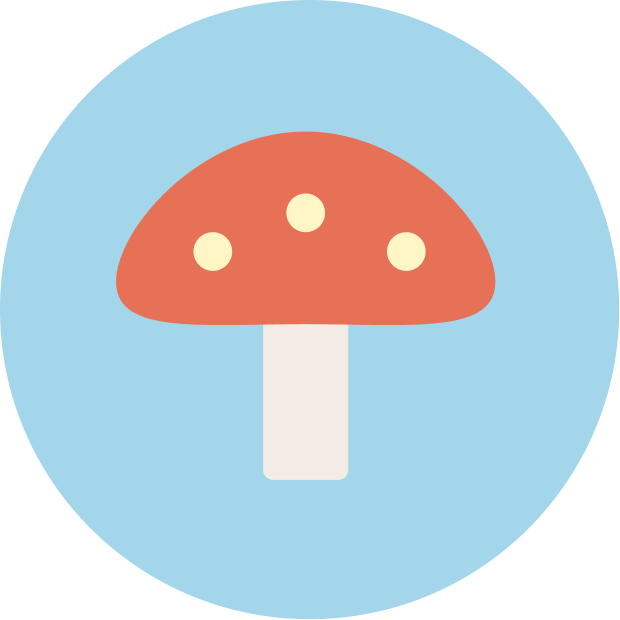
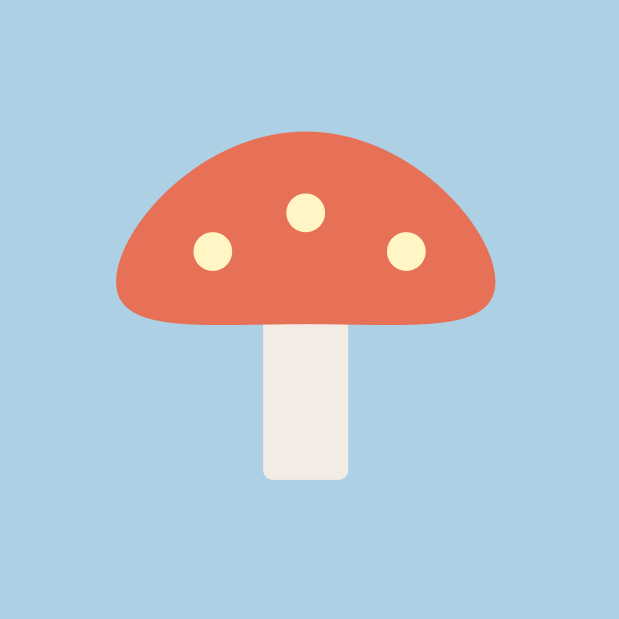
lumino almost done

diff --git a/remember.html b/remember.html
@@ -192,13 +192,10 @@ ul.insights em{font-style:italic;color:var(--ink)}
 .ba-row .cell p{margin-top:10px;font-size:15px;line-height:1.5;color:#2b2b2b;max-width:none}
 @media (max-width:900px){.ba-row{grid-template-columns:1fr}.ba-row .cell{border-left:none;border-top:1px solid var(--line)}.ba-row .cell:first-child{border-top:none}}
 
-/* ── Palette swatches ─────────────────────────────────────────────────── */
-.palette-row{margin-top:32px;display:grid;grid-template-columns:repeat(3,1fr);gap:16px}
-.swatch{border-radius:var(--r-sm);overflow:hidden;border:1px solid var(--line)}
-.swatch .fill{width:100%;aspect-ratio:2/1}
-.swatch .label{padding:16px 18px}
-.swatch .label .name{font-size:15px;color:var(--ink)}
-.swatch .label .hex{margin-top:4px;font-size:12.5px;color:var(--faint);text-transform:uppercase;letter-spacing:.04em}
+/* ── Product flow diagram — simplified swim-lane flowchart ──────────────── */
+.flow-diagram{margin-top:32px;padding:32px;border:1px solid var(--line);border-radius:var(--r-sm);overflow-x:auto}
+.flow-diagram svg{display:block;width:100%;height:auto;min-width:640px}
+.flow-caption{margin-top:12px;font-size:12.5px;color:var(--faint)}
 
 .pullquote{margin:32px 0;padding-left:20px;border-left:1px solid var(--line)}
 .pullquote p{margin:0;max-width:56ch;color:var(--ink);font-size:clamp(19px,2.1vw,24px);line-height:1.4;font-style:italic}
@@ -237,7 +234,6 @@ footer.pagefoot a:hover{color:var(--ink)}
   .stat-cells{grid-template-columns:1fr;gap:20px}
   .metrics-row{grid-template-columns:1fr;gap:20px}
   .highlight-row{grid-template-columns:1fr;gap:24px}
-  .palette-row{grid-template-columns:1fr}
 }
 </style>
 </head>
@@ -294,7 +290,7 @@ footer.pagefoot a:hover{color:var(--ink)}
         <div class="meta">
           <div class="meta-item"><span class="k">Team &amp; Role</span><span class="v">3 Designers · 1 PM · 5 Frontend Developers</span></div>
           <div class="meta-item"><span class="k">My Role</span><span class="v">Output Layer Design · Organizer Dashboard Scope</span></div>
-          <div class="meta-item"><span class="k">Timeline</span><span class="v">Apr 2026 - Jun 2026</span></div>
+          <div class="meta-item"><span class="k">Timeline</span><span class="v">May 2025 – Jun 2025 (cohort demo)</span></div>
         </div>
 
         <div class="ph ph-hero"></div>
@@ -312,6 +308,7 @@ footer.pagefoot a:hover{color:var(--ink)}
             <div class="sec-body">
               <p>Remember turns memories held by many people into one memorial for the person who has died. One person — the organizer — creates the memorial and invites family and friends to contribute. Contributors respond to a guided interview rather than facing a blank page, sharing stories, voice recordings, and photos.</p>
               <p>Those fragments are then synthesized into a single memorial that anyone can visit, moving between a slideshow, a constellation of themes and relationships, recorded voices, and a photo archive. The organizer manages it all from one dashboard, from the first invitation to the finished memorial.</p>
+              <p>Remember was built by a cohort team — a PM, a tech lead, three designers, and five frontend developers — toward a working demo on June 16, 2025. It ships as a one-time purchase per memorial, not a subscription: the organizer pays once, and the memorial stays theirs.</p>
             </div>
           </div>
           <div class="ph ph-inline"></div>
@@ -328,6 +325,7 @@ footer.pagefoot a:hover{color:var(--ink)}
             <div class="sec-body">
               <p>When someone dies, no one holds the whole picture. A friend remembers a conversation. A cousin has the only photo from that summer. A sibling saved a voicemail and can't bring themselves to delete it. Each piece is real, and each one is partial.</p>
               <p>The tools families reach for are not built to hold any of this. Group chats bury a story under the next message. Shared drives turn a life into a folder of filenames. Social media walls flatten condolences and memories into the same scroll, then move on.</p>
+              <p>Grief research backs this up in a specific way: vague memories disappear and specific ones stay. "She was a great mom" fades. The exact, oddly precise detail — the extra syllable she added to a word, the receipt she kept — is what people actually hold onto. And of every kind of memory, voice is the one people fear losing most: they resave voicemails for years just to keep them from auto-deleting, and keep dead phones charged just to hear a greeting again.</p>
               <p>So families end up with more fragments than they started with — and still no memorial.</p>
             </div>
           </div>
@@ -345,6 +343,7 @@ footer.pagefoot a:hover{color:var(--ink)}
               <p>We began by treating this as a collection problem: build a good way to gather memories from a lot of people. But collection turned out to be the easy half. The moment we imagined fifty submissions arriving — different voices, different lengths, some a paragraph, some a single sentence — the real question surfaced.</p>
               <p class="highlight">How do you turn many people's fragments into something that feels authored?</p>
               <p>That is genuinely hard, and it is the kind of hard that AI is good at. But it introduced the tension that shaped every decision after it. Grief is not a context that tolerates a chatbot, a sparkle icon, or a "generating…" state. The moment a grieving person can see the machine working, the memorial stops being about the person who died.</p>
+              <p>A research synthesis we pulled together from grief forums, obituaries, eulogies, and bereavement studies pointed at what the AI should actually be looking for. Across hundreds of firsthand accounts, the moment people describe as a gift — not a burden — is finding out something about the person they didn't already know: a story a coworker had never told, a letter that showed a side of someone no family member had seen. That became the north star for the synthesis engine: don't just summarize what's there, surface what nobody in the room already knew.</p>
             </div>
           </div>
           <div class="pullquote">
@@ -365,20 +364,7 @@ footer.pagefoot a:hover{color:var(--ink)}
               <p>Weight carries the same idea. Bold is reserved almost entirely for quotes — the actual words people wrote about the person. The interface stays quiet so the memories carry the emphasis. What a visitor should notice is what someone said, not the thing displaying it.</p>
             </div>
           </div>
-          <div class="palette-row">
-            <div class="swatch">
-              <div class="fill" style="background:#FBF9F6;border-bottom:1px solid var(--line)"></div>
-              <div class="label"><div class="name">Soft cream — background</div><div class="hex">#FBF9F6</div></div>
-            </div>
-            <div class="swatch">
-              <div class="fill" style="background:#423F39"></div>
-              <div class="label"><div class="name">Deep warm brown — type</div><div class="hex">#423F39</div></div>
-            </div>
-            <div class="swatch">
-              <div class="fill" style="background:#97877B"></div>
-              <div class="label"><div class="name">Muted taupe — supporting</div><div class="hex">#97877B</div></div>
-            </div>
-          </div>
+          <div class="ph ph-inline" style="aspect-ratio:1494/932;background:none"><img src="images/RememberDesignSystem.png" alt="Remember design system — typography, color, iconography and components"></div>
         </div>
       </section>
 
@@ -428,7 +414,72 @@ footer.pagefoot a:hover{color:var(--ink)}
               <p>Alongside design work, I ran the designer–developer syncs and coordinated handoff sequencing, so that five frontend developers were never blocked waiting on design.</p>
             </div>
           </div>
-          <div class="ph ph-inline"></div>
+          <div class="flow-diagram">
+            <svg viewBox="0 0 960 360" xmlns="http://www.w3.org/2000/svg" role="img" aria-label="Product flow: the organizer creates a memorial and shares an invite link; the contributor answers questions and uploads photos and voice; contributions flow back to the organizer, who reviews and generates the memorial.">
+              <defs>
+                <marker id="arrow" viewBox="0 0 10 10" refX="8" refY="5" markerWidth="7" markerHeight="7" orient="auto-start-reverse">
+                  <path d="M0,0 L10,5 L0,10 z" fill="var(--faint)"/>
+                </marker>
+              </defs>
+
+              <text x="38" y="26" font-size="11" letter-spacing="1.5" fill="var(--faint)" font-family="Inter, -apple-system, sans-serif">ORGANIZER</text>
+              <text x="38" y="201" font-size="11" letter-spacing="1.5" fill="var(--faint)" font-family="Inter, -apple-system, sans-serif">CONTRIBUTOR</text>
+
+              <!-- horizontal connectors, organizer row -->
+              <line x1="122" y1="100" x2="198" y2="100" stroke="var(--faint)" stroke-width="1.3" marker-end="url(#arrow)"/>
+              <line x1="825" y1="100" x2="855" y2="100" stroke="var(--faint)" stroke-width="1.3" marker-end="url(#arrow)"/>
+
+              <!-- horizontal connectors, contributor row -->
+              <line x1="332" y1="280" x2="412" y2="280" stroke="var(--faint)" stroke-width="1.3" marker-end="url(#arrow)"/>
+              <line x1="625" y1="280" x2="685" y2="280" stroke="var(--faint)" stroke-width="1.3" marker-end="url(#arrow)"/>
+
+              <!-- cross-lane: invite sent down -->
+              <line x1="290" y1="138" x2="290" y2="235" stroke="var(--faint)" stroke-width="1.3" marker-end="url(#arrow)"/>
+              <text x="300" y="192" font-size="11" fill="var(--faint)" font-family="Inter, -apple-system, sans-serif">Invite sent</text>
+
+              <!-- cross-lane: contributions collected up -->
+              <line x1="730" y1="235" x2="730" y2="138" stroke="var(--faint)" stroke-width="1.3" marker-end="url(#arrow)"/>
+              <text x="740" y="192" font-size="11" fill="var(--faint)" font-family="Inter, -apple-system, sans-serif">Contributions</text>
+              <text x="740" y="206" font-size="11" fill="var(--faint)" font-family="Inter, -apple-system, sans-serif">collected</text>
+
+              <!-- O1: start circle -->
+              <circle cx="80" cy="100" r="42" fill="var(--paper)" stroke="var(--faint)" stroke-width="1.3"/>
+              <text x="80" y="96" text-anchor="middle" font-size="11" fill="var(--ink)" font-family="Inter, -apple-system, sans-serif">Creates</text>
+              <text x="80" y="110" text-anchor="middle" font-size="11" fill="var(--ink)" font-family="Inter, -apple-system, sans-serif">Memorial</text>
+
+              <!-- O2: action rect -->
+              <rect x="195" y="62" width="190" height="76" rx="10" fill="var(--line)" stroke="var(--faint)" stroke-width="1.3"/>
+              <text x="290" y="96" text-anchor="middle" font-size="11" fill="var(--ink)" font-family="Inter, -apple-system, sans-serif">Generates &amp;</text>
+              <text x="290" y="112" text-anchor="middle" font-size="11" fill="var(--ink)" font-family="Inter, -apple-system, sans-serif">Shares Invite Link</text>
+
+              <!-- C1: status circle -->
+              <circle cx="290" cy="280" r="42" fill="var(--paper)" stroke="var(--faint)" stroke-width="1.3"/>
+              <text x="290" y="276" text-anchor="middle" font-size="11" fill="var(--ink)" font-family="Inter, -apple-system, sans-serif">Opens</text>
+              <text x="290" y="290" text-anchor="middle" font-size="11" fill="var(--ink)" font-family="Inter, -apple-system, sans-serif">Invite Link</text>
+
+              <!-- C2: action rect -->
+              <rect x="412" y="242" width="213" height="76" rx="10" fill="var(--line)" stroke="var(--faint)" stroke-width="1.3"/>
+              <text x="518" y="272" text-anchor="middle" font-size="11" fill="var(--ink)" font-family="Inter, -apple-system, sans-serif">Answers Questions,</text>
+              <text x="518" y="288" text-anchor="middle" font-size="11" fill="var(--ink)" font-family="Inter, -apple-system, sans-serif">Uploads Photos &amp; Voice</text>
+              <text x="518" y="304" text-anchor="middle" font-size="10" fill="var(--faint)" font-family="Inter, -apple-system, sans-serif">(voice optional)</text>
+
+              <!-- C3: status circle -->
+              <circle cx="730" cy="280" r="42" fill="var(--paper)" stroke="var(--faint)" stroke-width="1.3"/>
+              <text x="730" y="276" text-anchor="middle" font-size="11" fill="var(--ink)" font-family="Inter, -apple-system, sans-serif">Submission</text>
+              <text x="730" y="290" text-anchor="middle" font-size="11" fill="var(--ink)" font-family="Inter, -apple-system, sans-serif">Confirmed</text>
+
+              <!-- O3: action rect -->
+              <rect x="635" y="62" width="190" height="76" rx="10" fill="var(--line)" stroke="var(--faint)" stroke-width="1.3"/>
+              <text x="730" y="96" text-anchor="middle" font-size="11" fill="var(--ink)" font-family="Inter, -apple-system, sans-serif">Reviews Flags,</text>
+              <text x="730" y="112" text-anchor="middle" font-size="11" fill="var(--ink)" font-family="Inter, -apple-system, sans-serif">Previews Themes</text>
+
+              <!-- O4: end circle -->
+              <circle cx="898" cy="100" r="42" fill="var(--paper)" stroke="var(--faint)" stroke-width="1.3"/>
+              <text x="898" y="96" text-anchor="middle" font-size="11" fill="var(--ink)" font-family="Inter, -apple-system, sans-serif">Memorial</text>
+              <text x="898" y="110" text-anchor="middle" font-size="11" fill="var(--ink)" font-family="Inter, -apple-system, sans-serif">Shared</text>
+            </svg>
+            <p class="flow-caption">Simplified product flow — the organizer's and contributor's paths, and where they cross.</p>
+          </div>
         </div>
       </section>
 
@@ -456,24 +507,24 @@ footer.pagefoot a:hover{color:var(--ink)}
 
           <div class="bento-5">
             <div class="cell">
-              <h3>Slideshow</h3>
-              <p>The first thing a visitor meets. It requires no decision and no interaction; it simply plays.</p>
+              <h3>Story</h3>
+              <p>A slideshow, each frame a photo paired with the quote or memory it belongs to, sequenced to read as one narrative. The first thing a visitor meets — no decision required, it simply plays at their own pace.</p>
             </div>
             <div class="cell">
               <h3>Constellation — Themes</h3>
-              <p>Synthesized memories rendered as connected points of light rather than paragraphs — who he was, assembled from what many people independently remembered.</p>
+              <p>Synthesized memories rendered as connected points of light rather than paragraphs. Each theme carries a short summary and the real contributor quotes it was built from — never AI prose standing alone.</p>
             </div>
             <div class="cell">
               <h3>Constellation — Relationships</h3>
-              <p>The same structure, read a second way: who remembered him, and how.</p>
+              <p>The same map, filtered by who's speaking — family, friend, colleague, community — so a visitor can see how differently each circle experienced the same person.</p>
             </div>
             <div class="cell">
               <h3>Voices</h3>
-              <p>The recordings, kept as sound. Some things should not be transcribed.</p>
+              <p>Every recording, kept as sound first, with a transcript underneath for anyone who wants to read instead of listen. Some things should not be transcribed-only.</p>
             </div>
             <div class="cell">
-              <h3>Photos</h3>
-              <p>Browsable by album or by contributor, so a visitor can follow either the moment or the person who kept it.</p>
+              <h3>All Photos</h3>
+              <p>Every submitted photo, sorted into albums the AI names from what's actually in them, not by upload date — then browsable chronologically once you're inside one.</p>
             </div>
           </div>
 
@@ -527,7 +578,7 @@ footer.pagefoot a:hover{color:var(--ink)}
             <div class="cell">
               <h3>Team-level scope decisions</h3>
               <div class="ph"><span class="cap">Share flow, before &amp; after</span></div>
-              <p>The team also cut video from the MVP, split audio into two distinct cases (original voice recordings versus speech captured during the interview), and converted the share flow from a full page into a focused pop-up that visually distinguishes a contributor invitation from a viewer link — two emotionally different acts that had looked identical.</p>
+              <p>For a demo-day MVP, the team drew hard lines: no mobile app, one memorial per account, and no organizer editing of AI-generated content — the output ships as the AI produced it, or not at all. We also converted the share flow from a full page into a focused pop-up that visually distinguishes a contributor invitation from a viewer link — two emotionally different acts that had looked identical.</p>
             </div>
           </div>
         </div>
@@ -552,6 +603,7 @@ footer.pagefoot a:hover{color:var(--ink)}
             </div>
             <div class="sec-body">
               <p>The prototype is live, but it has never been in front of a grieving family. The first thing I would test is not usability. It's whether the constellation is meaningful or merely pretty — a distinction that a task-completion metric cannot detect and that only a real visitor can answer. I would run moderated sessions with actual viewers and organizers, and watch for one thing: whether someone moving through the constellation is remembering a person, or looking at a visualization.</p>
+              <p>The research also points past the demo. Memory research shows grief moves in stages: a foggy first year, active reminiscing from years two to five, then a fade that sets in around year five to fifteen, when the specific scenes go first and only generalizations remain. That means a memorial's highest emotional value isn't the week it's built — it's a decade out, when someone's own memory of a voice or a face has started to soften and Remember is the thing that still has it exactly. We built for the demo. The real product has to be built for the ten-year user, still able to accept new contributions, still worth opening, long after the memorial was finished.</p>
             </div>
           </div>
         </div>

diff --git a/play.html b/play.html
@@ -128,6 +128,16 @@ nav{background:#fff;border-radius:999px;display:flex;align-items:center;gap:10px
 .img-card-caption.visible{opacity:1}
 .img-card-caption a{color:var(--ink);text-decoration:underline;text-underline-offset:2px}
 
+/* ── Scroll card: a tall full-page capture. Expanded, the frame itself
+   becomes a fixed viewing window you scroll inside, with its caption
+   staying put below it (no scrolling needed to read it); a second click
+   on the window opens the real site. ── */
+.play-item.scroll-item.expanded .ph-card{
+  aspect-ratio:auto;overflow-x:hidden;overflow-y:auto;cursor:pointer;
+  -webkit-overflow-scrolling:touch;
+}
+.play-item.scroll-item.expanded .ph-card img{height:auto;object-fit:unset}
+
 /* ── Mobile: drop the fixed app-shell, let the page scroll normally ─────── */
 @media (max-width:960px){
   html,body{height:auto;overflow:visible}
@@ -202,14 +212,19 @@ if(sessionStorage.getItem('playFromAbout')){
               <div class="ph-card img-card" id="playCard" style="aspect-ratio:9154/5945">
                 <img src="images/PlayStardewValley.webp" alt="Stardew Valley"/>
               </div>
-              <p class="img-card-caption">I am a Stardew Valley player. I design and code my own mods when the game doesn't do what I want. Visit my nexus homepage: <a href="https://www.nexusmods.com/profile/jyxdong/mods" target="_blank" rel="noopener noreferrer" onclick="event.stopPropagation()">nexusmods.com/profile/jyxdong/mods</a></p>
+              <p class="img-card-caption">I am a very obsessed Stardew Valley player. While working on my own farm, I design and code my own mods when the game doesn't do what I want. Visit my nexus homepage: <a href="https://www.nexusmods.com/profile/jyxdong/mods" target="_blank" rel="noopener noreferrer" onclick="event.stopPropagation()">nexusmods.com/profile/jyxdong/mods</a></p>
             </div>
             <div class="ph-card h-sm"></div>
             <div class="ph-card h-md"></div>
             <div class="ph-card h-lg"></div>
           </div>
           <div class="waterfall-col narrow">
-            <div class="ph-card h-xl"></div>
+            <div class="play-item scroll-item" id="wattItem">
+              <div class="ph-card img-card" id="wattCard" style="aspect-ratio:4/3">
+                <img src="images/Play27Watt.webp" alt="27 Watt Studio" style="object-position:top"/>
+              </div>
+              <p class="img-card-caption">27 Watt Studio is a photography studio founded by my friends and I. I work as an assistant photographer while mainly responsible for social media and web design.</p>
+            </div>
             <div class="ph-card h-md"></div>
             <div class="ph-card h-sm"></div>
           </div>
@@ -318,8 +333,86 @@ if(sessionStorage.getItem('playFromAbout')){
     e.stopPropagation();
     if(isExpanded) collapse(); else expand();
   });
+
+  // ── Watt item: click floats + expands it into a fixed, scrollable window
+  // showing the full captured page, with its caption below; click again
+  // jumps to the real site.
+  var wattItem = document.getElementById('wattItem');
+  var wattCard = document.getElementById('wattCard');
+  var wattCaption = wattItem.querySelector('.img-card-caption');
+  var wattExpanded = false;
+
+  function wattFlip(applyChanges){
+    var first = wattItem.getBoundingClientRect();
+    applyChanges();
+    var last = wattItem.getBoundingClientRect();
+    var dx = (first.left+first.width/2) - (last.left+last.width/2);
+    var dy = (first.top+first.height/2) - (last.top+last.height/2);
+    var scale = last.width ? first.width/last.width : 1;
+    wattItem.style.transition = 'none';
+    wattItem.style.transform = 'translate('+dx+'px,'+dy+'px) scale('+scale+')';
+    wattItem.getBoundingClientRect(); // force reflow
+    requestAnimationFrame(function(){
+      wattItem.style.transition = 'transform .6s cubic-bezier(.16,1,.3,1)';
+      wattItem.style.transform = 'translate(0,0) scale(1)';
+    });
+  }
+
+  function wattExpand(){
+    wattExpanded = true;
+    var frameRect = frame.getBoundingClientRect();
+    wattFlip(function(){
+      wattItem.classList.add('expanded');
+      var w = Math.min(frame.clientWidth*0.56, 480);
+      var h = Math.min(frame.clientHeight*0.6, 420);
+      wattCard.style.width = w+'px';
+      wattCard.style.height = h+'px';
+      wattItem.style.width = w+'px';
+      wattItem.style.left = '0px';
+      wattItem.style.top = '0px';
+      var r = wattItem.getBoundingClientRect();
+      wattItem.style.left = (frameRect.width/2 - r.width/2)+'px';
+      wattItem.style.top = (frameRect.height/2 - r.height/2)+'px';
+    });
+    scrim.classList.add('active');
+    wattItem.addEventListener('transitionend', function onEnd(e){
+      if(e.propertyName !== 'transform') return;
+      wattItem.removeEventListener('transitionend', onEnd);
+      if(wattExpanded) wattCaption.classList.add('visible');
+    });
+  }
+
+  function wattCollapse(){
+    wattExpanded = false;
+    wattCaption.classList.remove('visible');
+    wattFlip(function(){
+      wattItem.classList.remove('expanded');
+      wattItem.style.width = '';
+      wattItem.style.left = '';
+      wattItem.style.top = '';
+      wattCard.style.width = '';
+      wattCard.style.height = '';
+      wattCard.scrollTop = 0;
+    });
+    scrim.classList.remove('active');
+    wattItem.addEventListener('transitionend', function onEnd(e){
+      if(e.propertyName !== 'transform') return;
+      wattItem.removeEventListener('transitionend', onEnd);
+      wattItem.style.transition = '';
+      wattItem.style.transform = '';
+    });
+  }
+
+  wattItem.addEventListener('click', function(e){
+    if(waterfall.classList.contains('stacked')) return; // let it disperse first
+    e.stopPropagation();
+    if(!wattExpanded){ wattExpand(); }
+    else{ window.open('https://www.27wattmedia.com/', '_blank', 'noopener'); }
+  });
+
   scrim.addEventListener('click', function(){
     if(isExpanded) collapse();
+    if(wattExpanded) wattCollapse();
   });
 })();
 </script>

diff --git a/index.html b/index.html
@@ -254,13 +254,7 @@ const TEX = {
     label(c,s,'Artisk Redesign');
   }),
   lumino: new THREE.TextureLoader().load('images/LuminoSign.png'),
-  remember: mkTex((c,s)=>{
-    c.fillStyle='#0d4d68'; c.fillRect(0,0,s,s);
-    [[.07,.07,.86,.19,'rgba(70,220,180,.6)'],[.10,.29,.80,.16,'rgba(255,185,55,.55)'],
-     [.12,.48,.76,.14,'rgba(210,90,230,.55)'],[.15,.65,.70,.12,'rgba(90,185,255,.5)']
-    ].forEach(a=>{c.fillStyle=a[4];c.roundRect(a[0]*s,a[1]*s,a[2]*s,a[3]*s,7);c.fill();});
-    label(c,s,'Remember');
-  }),
+  remember: new THREE.TextureLoader().load('images/RememberSign.png'),
   proj4: mkTex((c,s)=>{
     c.fillStyle='#d42c3e'; c.fillRect(0,0,s,s);
     const tri=(ax,ay,bx,by,cx2,cy2,col)=>{
@@ -348,6 +342,7 @@ const DEFS=[
   {label:'Project 05',      key:'proj5',    shape:'hrect',    w:2.85,h:1.45, y:-3.85, deg:310},
 ];
 
+const PROJECT_PAGES={lumino:'lumino.html', remember:'remember.html'};
 const clickables=[];
 
 function buildSign(def){
@@ -447,9 +442,10 @@ function focusSign(entry){
     busy=false;
     ltxt.textContent=entry.def.label;
     lbl.classList.add('on'); hint.classList.add('on');
-    if(entry.def.key==='lumino'){
+    const page=PROJECT_PAGES[entry.def.key];
+    if(page){
       lbl.classList.add('clickable');
-      lbl.onclick=function(e){ e.stopPropagation(); window.location.href='lumino.html'; };
+      lbl.onclick=function(e){ e.stopPropagation(); window.location.href=page; };
     } else {
       lbl.classList.remove('clickable');
       lbl.onclick=null;
